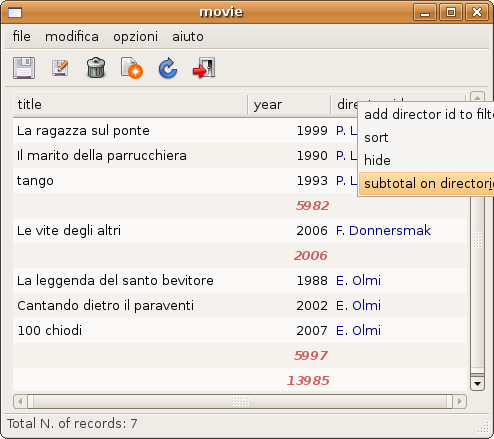
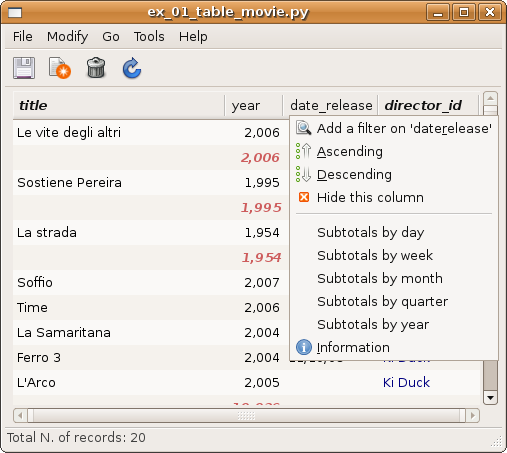
sqlwidget: order_by can now correctly deal foreign keys. It follows the            foreign key to understand the description field and use that one.

diff --git a/sqlkit/widgets/common/sqlwidget.py b/sqlkit/widgets/common/sqlwidget.py
@@ -1045,14 +1045,8 @@ class SqlWidget(gobject.GObject):
         if limit:
             self.limit = limit
 
-        if order_by:
-            self.order_by = order_by
-            
         if constraint:
             self.constraint=constraint
-
-#         if sql is None:
-#             sql = self.sql
 
         if isinstance(sql, tuple) and len(sql) == 2:
             sql_str, params = sql
@@ -1060,15 +1054,20 @@ class SqlWidget(gobject.GObject):
             sql_str = sql
             params = None
 
-#         if reload_constraint == True:
-#             self.sql = (sql_str, params)
-
         query = self.query.filter(sql_str)
         if params:
             query = query.params(**params)
+
+        ## order_by
+        if order_by:
+            self.order_by = order_by
+            
         if self.order_by:
+            if self._order_by_join_args:
+                query = query.reset_joinpoint().join(self._order_by_join_args)
             query = query.order_by(*self.order_by)
 
+        ## filters
         try:
             query = self.filter_panel.add_filter_conditions(query)
         except exc.ParseFilterError, e:
@@ -1146,14 +1145,23 @@ class SqlWidget(gobject.GObject):
         May be an order_by clause element or a string, with comma separated fields + ASC|DESC
         """
         from sqlalchemy.sql.expression import desc
+        from sqlkit.db.django_syntax import django2components
 
+        self._order_by_join_args = None
         if isinstance(order_by, basestring):
             order = []
             for tocken in order_by.split(','):
                 order_list = tocken.split()
                 field_name = order_list[0]
-                col = getattr(self.mapper.class_, field_name)
-                    
+
+                #col0 = getattr(self.mapper.class_, field_name)
+                ## try to add a join for an order by on a field in a related table
+                joins, op, op_str, value, col, join_args = django2components(self.mapper, { field_name: None})
+                #assert col0 == col, "django2components does not lead to the same result as getattr"
+                if join_args:
+                    ## it will be evaluated at reload-time
+                    self._order_by_join_args = join_args
+
                 if len(order_list) > 1:
                     direction = order_list[1]
                     if direction.upper() == 'DESC':

diff --git a/sqlkit/widgets/table/columns.py b/sqlkit/widgets/table/columns.py
@@ -729,14 +729,20 @@ class ColumnMenuProxy(object):
         self.master.tvcolumns[field_name].set_property('visible', False)
         
     def reload_sort_cb(self, widget, field_name, direction):
-        
-        col = self.master.gui_fields[field_name].column
-        if direction == 'ASC':
-            self.master.order_by = col
-        else:
-            self.master.order_by = col.desc()
+
+        from sqlkit.db.utils import tables, get_description
+
+        order_by = field_name
+        if self.master.is_fkey(field_name):
+            ftable = getattr(self.master.mapper.c, field_name).foreign_keys[0].column.table
+            fdescr = get_description(ftable, attr='description')
+            order_by = "%s__%s" % (field_name, fdescr)
             
-        #self.order_by = ("%s %s" % (field_name, direction))
+            
+        if direction == 'DESC':
+            order_by += ' DESC'
+
+        self.master.order_by = order_by
         self.master.reload_cb(None)
         
     

diff --git a/demo/sql/ex_13c_opts_order_by.py b/demo/sql/ex_13c_opts_order_by.py
@@ -1,0 +1,17 @@
+"""base/opts: order_by - foreign_key
+
+Order by can use django_syntax too
+
+"""
+
+t = SqlTable(table='movie',
+             dbproxy=db,
+             order_by='director_id__last_name',
+             geom=(800,300),
+             )
+
+# the following is ok too:
+# t.order_by = 'director_id__last_name'
+
+t.reload()
+

diff --git a/doc/sqlkit/sqlwidget.rst b/doc/sqlkit/sqlwidget.rst
@@ -98,8 +98,14 @@ slower. Previous 0.5 rel called it ``autoflush``
      also a string space or comma separated
 
   :param order_by=None: 
-     order by column to be used when selecting. Can be a string as would be
-     set in ordinary SQL statements or a list of sqlalchemy order_by clause elements
+     order by column to be used when selecting. Can be 
+
+      * a list of sqlalchemy order_by clause elements
+      * a string as would be  set in ordinary SQL statements
+      * a string of fields as would be used in filters:
+        ``user_id__username`` (note the double_underscore). If you also have
+        a relation ``user`` that points to the same table you can use 
+	``user__username`` with the same effect.
 
   :param limit=200:
      limit attribute to be used selecting
@@ -133,8 +139,6 @@ slower. Previous 0.5 rel called it ``autoflush``
      case if you have a relation with attribute 'address' you may use: 
      {'address.zip_code': 6}
    
-
-
   :param title:
      the title for the gtk.Window. 
 
@@ -296,7 +300,9 @@ Attributes
 
 .. attribute:: order_by
 
-   an order_by string or clause element. Same as parameter passed to the class.
+   an order_by string or clause element. Same as parameter passed to the
+   class. It's a property, can be set in any moment.
+
 
 .. attribute:: session
 

diff --git a/doc/sqlkit/table.rst b/doc/sqlkit/table.rst
@@ -66,7 +66,10 @@ Column headers
 Each column is clickable. Clicking on the column pops up a menu that enables:
 
  - to add a filter on this field (see :ref:`filters`)
- - to sort on this field (database sorting)
+ - to sort on this field (database sorting). Note that sorting on a
+   ForeignKey will trigger a join with the referenced table and an attempt
+   to sort on the :ref:`description`` (In general you don't want to
+   sort on the ``id``). 
  - to add a total on this column (if the column is numeric)
  - to add a brake on this column (see docs for :ref:`totals`)
 
